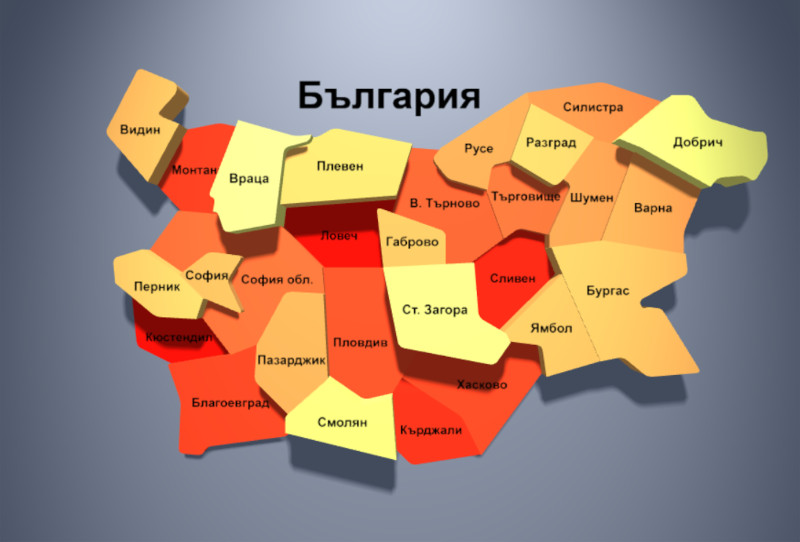
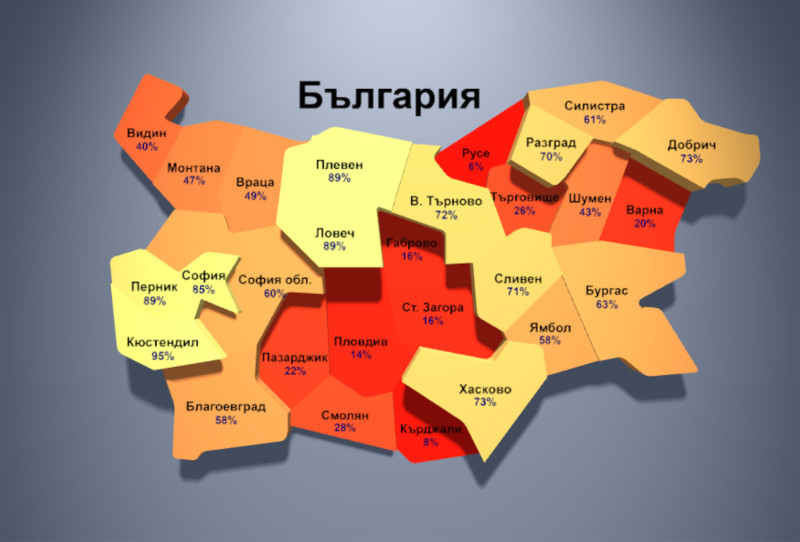
Updated example 7

diff --git a/examples/example-7.html b/examples/example-7.html
@@ -42,12 +42,18 @@
 				}
 				
 					
-				var label = map.label2D( dictMap[regionName]||regionName, value );
+				var label = map.label2D( dictMap[regionName], value );
+				var percent = map.label2D( Math.round(100*value/3.1)+'%', value, 'navy' );
 				
 				if( province )
 				{
 					label.position.copy( map.center( regionName, value ) );
 					label.scale.set( 0.8, 0.8, 0.8 );
+					
+					percent.position.copy( label.position );
+					percent.position.z += 0.8;
+					percent.scale.set( 0.7, 0.7, 0.7 );
+					scene.add( percent );
 				}
 				else
 				{

diff --git a/README.md b/README.md
@@ -379,26 +379,15 @@ function drawMap( map )
 {
   for( var regionName in map.regions )
   {
-    var province = regionName!='BG';
-		
     var value = 0.1+3*Math.random();
     var color = new THREE.Color( 1, value/3, value/6 );
-			
-    if( regionName!='BG' )
-      scene.add( map.region3D( regionName, value, color ) );
+	
+    scene.add( map.region3D( regionName, value, color ) );
 			
     var label = map.label2D( dictMap[regionName], value );
-		
-    if( province )
-    {
-      label.position.copy( map.center( regionName, value ) );
-      label.scale.set( 0.8, 0.8, 0.8 );
-    }
-    else
-    {
-      label.position.copy( map.center( regionName, 0 ) );
-      label.scale.set( 2.5, 2.5, 2.5 );
-    }
+
+    label.position.copy( map.center( regionName, value ) );
+    label.scale.set( 0.8, 0.8, 0.8 );
 
     scene.add( label );
   }
